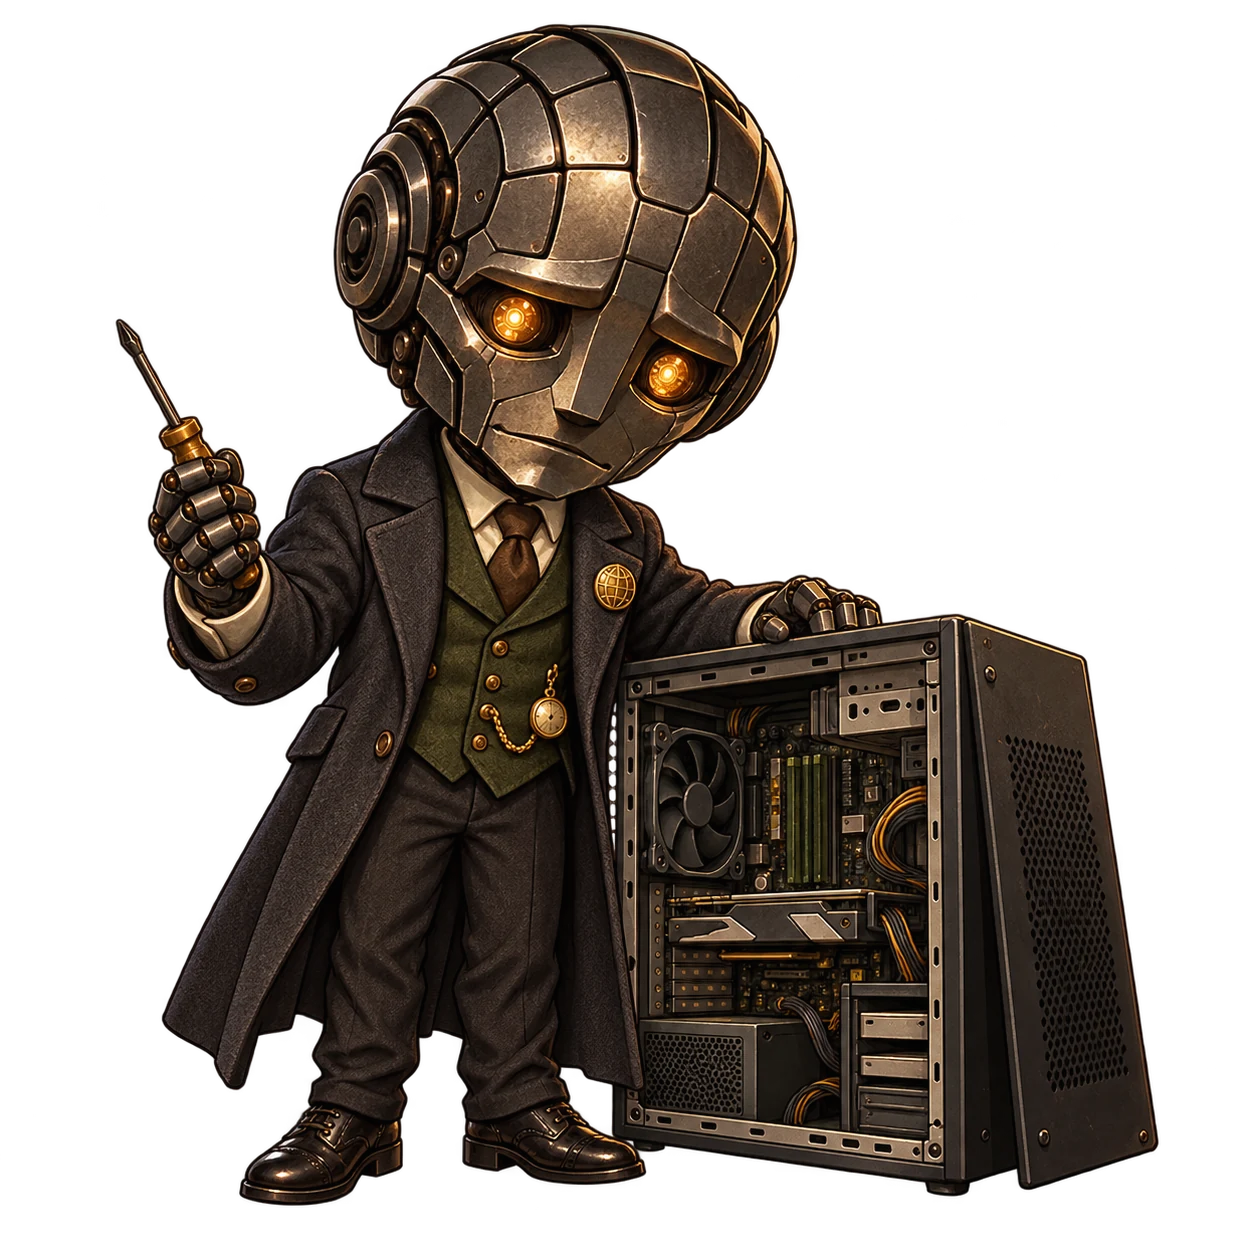
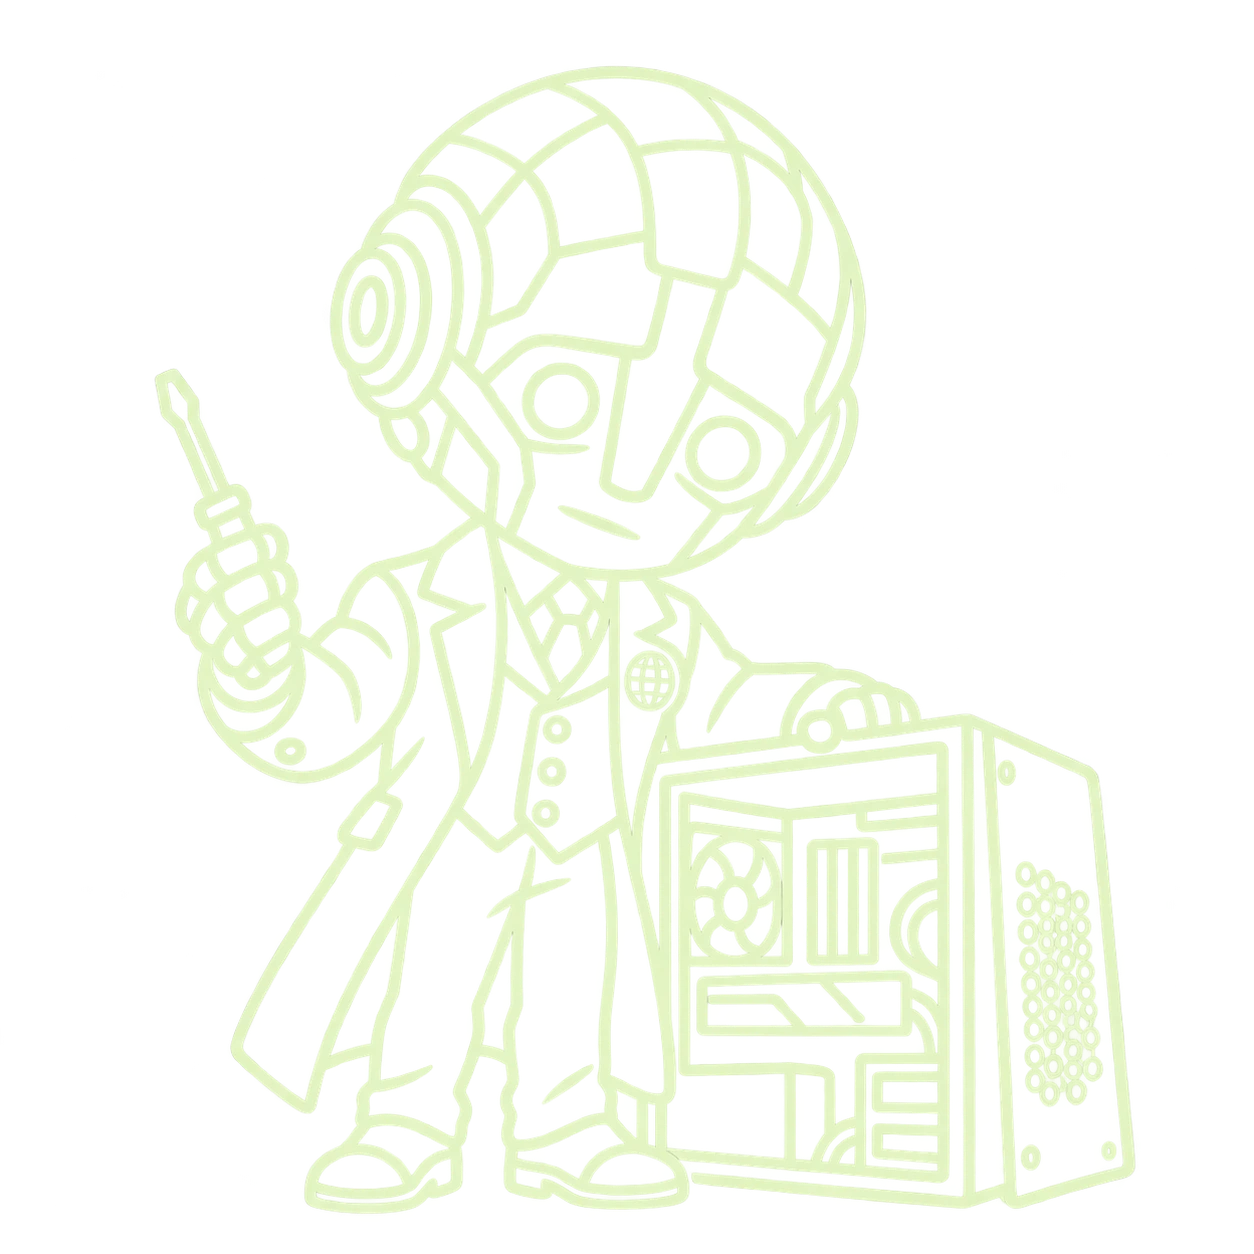
Restyle chibi CODEX as sage outline illustration

diff --git a/src/lost-page.css b/src/lost-page.css
@@ -28,20 +28,8 @@
   gap: clamp(28px, 5vw, 76px);
   padding: 48px 40px;
 }
-.lost-illustration { position: relative; min-width: 0; }
-.lost-illustration::after {
-  content: '';
-  position: absolute;
-  z-index: 0;
-  bottom: 0;
-  left: 6%;
-  width: 88%;
-  height: 4%;
-  border-radius: 50%;
-  background: #0005;
-  filter: blur(14px);
-}
-.lost-illustration img { position: relative; z-index: 1; display: block; width: 100%; height: auto; }
+.lost-illustration { min-width: 0; }
+.lost-illustration img { display: block; width: 100%; height: auto; }
 .lost-eyebrow { display: flex; align-items: center; gap: 9px; font: 10px/1.7 var(--mono); letter-spacing: 1.6px; color: var(--accent); }
 .lost-eyebrow i { width: 5px; height: 5px; background: currentColor; }
 .lost-copy h1 { margin: 22px 0 18px; font-size: clamp(30px, 3.3vw, 46px); font-weight: 500; line-height: 1.2; letter-spacing: -1.3px; color: var(--text); }

diff --git a/src/lost-page.js b/src/lost-page.js
@@ -11,7 +11,7 @@ export function showLostPage({ logo, onReturnHome }) {
         <span class="lost-terminal-label">TERMINAL / ROTA NÃO LOCALIZADA</span>
       </header>
       <main class="lost-main" id="main-content">
-        <div class="lost-illustration"><img src="${codexLost}" width="1254" height="1254" alt="C.O.D.E.X em versão chibi, segurando uma chave de fenda ao lado de um gabinete de computador aberto." decoding="async"></div>
+        <div class="lost-illustration"><img src="${codexLost}" width="1254" height="1254" alt="C.O.D.E.X chibi desenhado em contornos verde-sálvia, segurando uma chave de fenda ao lado de um gabinete de computador." decoding="async"></div>
         <div class="lost-copy">
           <span class="lost-eyebrow"><i></i>ASSISTÊNCIA DO ARQUIVO</span>
           <h1>Ei, desculpa, acho que você se perdeu.</h1>

diff --git a/README.md b/README.md
@@ -177,4 +177,4 @@ Seções e fichas inexistentes, caminhos inválidos fora do hash e falhas de exe
 
 Ao abrir ou recarregar o site, há **1% de chance** de entrar nessa mesma tela. O sorteio acontece uma vez na inicialização, sem se repetir ao trocar de seção, atualizar o nome ou usar o botão de retorno. A identificação da primeira visita continua funcionando normalmente. Não há retorno automático: a pessoa escolhe quando voltar pelo botão.
 
-A resolução de rotas e a chance ficam em `src/routing.js`; a tela e seus estilos, em `src/lost-page.js` e `src/lost-page.css`. A ilustração fica em `src/assets/codex-lost.webp`, importada no build e incluída também na prévia independente.
+A resolução de rotas e a chance ficam em `src/routing.js`; a tela e seus estilos, em `src/lost-page.js` e `src/lost-page.css`. A ilustração minimalista usa apenas contornos verde-sálvia e fundo transparente, na paleta do site. Ela fica em `src/assets/codex-lost.webp`, importada no build e incluída também na prévia independente.
